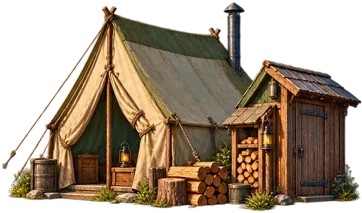
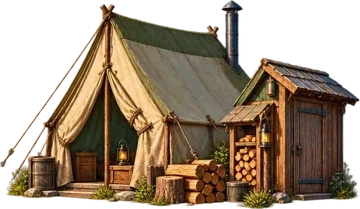
Trim transparent building margins and seat foundations into roadside lots

diff --git a/public/brain-arcade/rv-road-trip-mayhem/alpine-run.js b/public/brain-arcade/rv-road-trip-mayhem/alpine-run.js
@@ -97,7 +97,7 @@ function scenicSprite(name,x,ignoredY,width){const im=painted[name];if(x<-width|
  // A compacted, level terrace supports the complete sprite footprint.
  ellipse(x,base+10,width*.54,7,levelIndex?'#bb9a72':'#8c9270');line(x-half,base+11,x+half,base+11,levelIndex?'#dfc196':'#b3b497',2);
  for(let k=0;k<17;k++){const dx=(noise(wx+k)*2-1)*half;ellipse(x+dx,base+11+noise(k+wx)*6,1.6,1,levelIndex?'#a4835d':'#6d775b');}
- ellipse(x,base+6,width*.44,5,'#1a282751');ctx.drawImage(im,x-width/2,base+8-h,width,h);
+ ellipse(x,base+6,width*.44,5,'#1a282751');ctx.drawImage(im,x-width/2,base+14-h,width,h);
  // Hide the transparent/uneven lowest pixels behind a foreground planting strip.
  rootTufts(x-width*.44,base+12,10);rootTufts(x+width*.44,base+12,11);
 }
